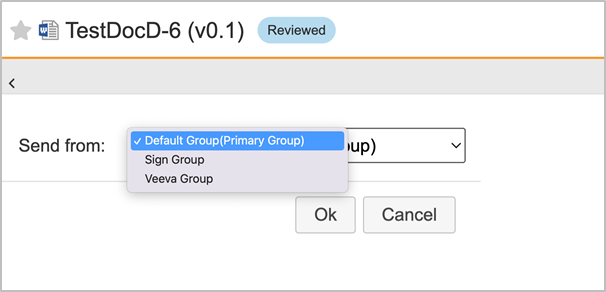
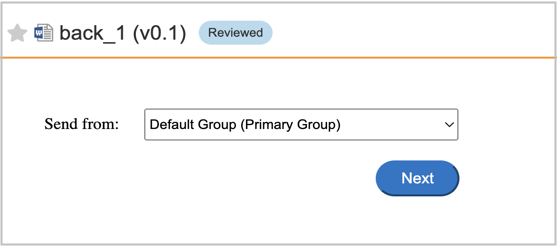
umg updates

Changed region(s): [[0.0, 0.0, 1.0, 1.0]]

diff --git a/help/veeva/user.md b/help/veeva/user.md
@@ -80,7 +80,7 @@ To send an agreement using Adobe Acrobat Sign for Veeva:
 
     ![](images/select-adobe-sign.png)
 
-1. If UMG (Users in Multiple Groups) feature is enabled on the Adobe Acrobat Sign account and the sender belongs to multiple groups, you see a dialog as shown below. In the dialog, select the group and then select **[!UICONTROL Ok]**.
+1. If UMG (Users in Multiple Groups) feature is enabled on the Adobe Acrobat Sign account and the sender belongs to multiple groups, you see a dialog as shown below. In the dialog, select the group and then select **[!UICONTROL Next]**.
 
     ![](images/umg-dialog.png)
 
